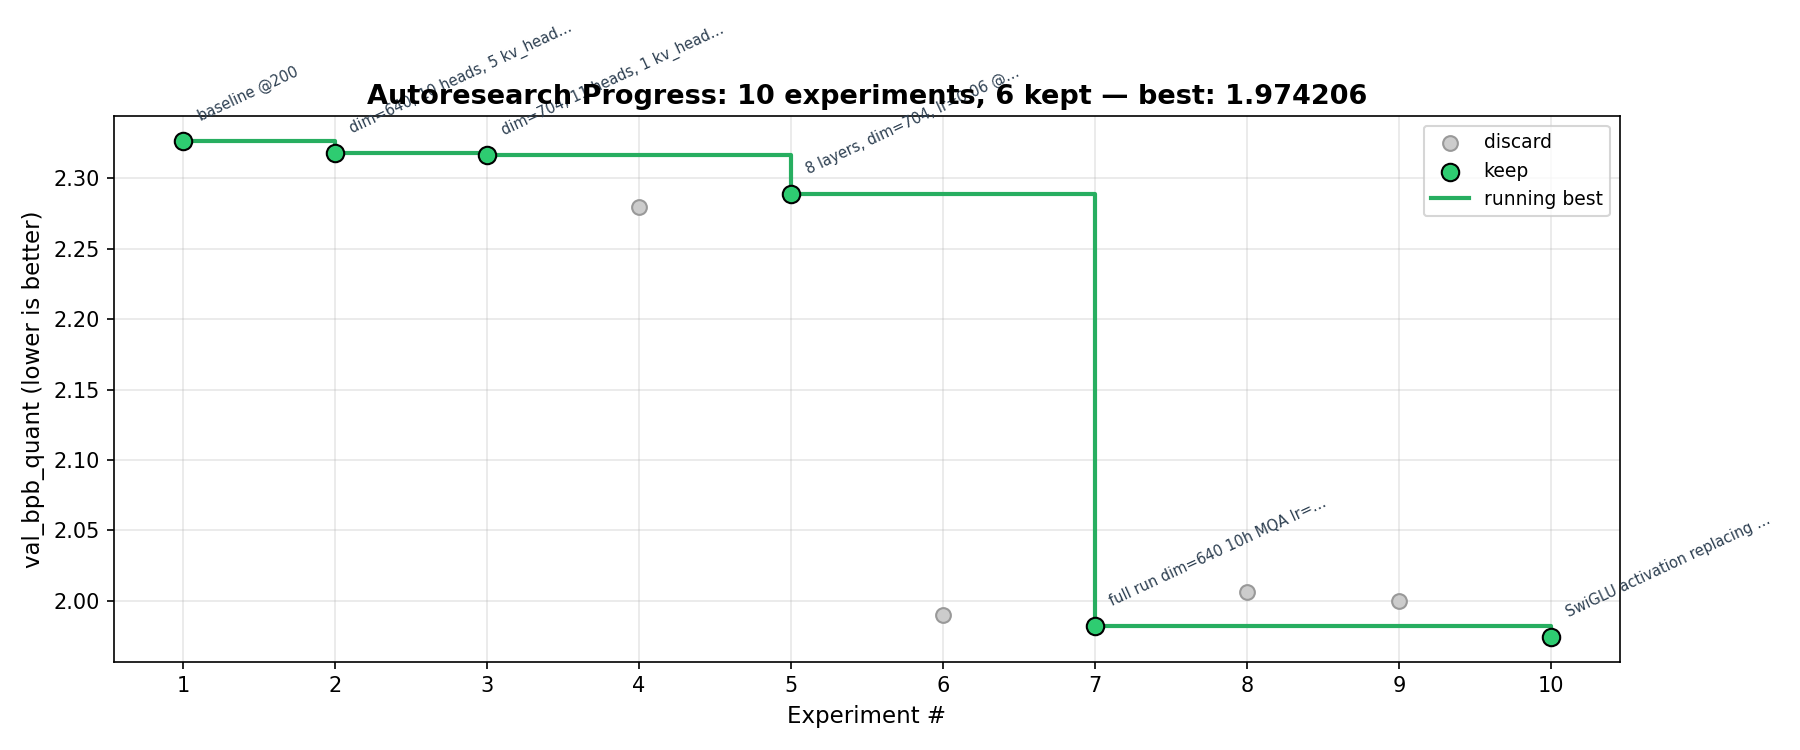
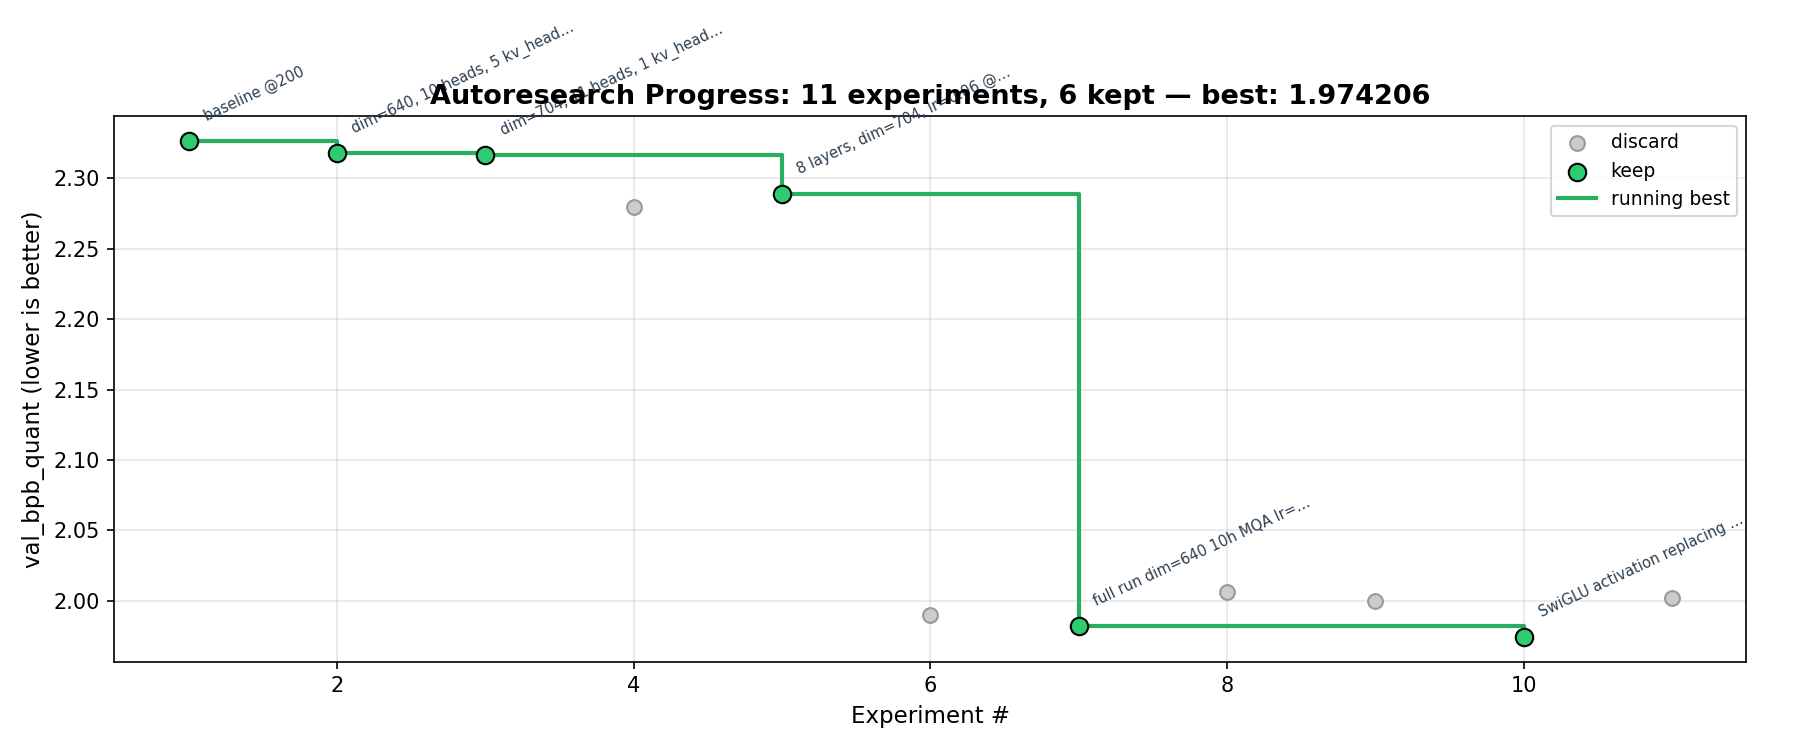
Update results: dim=660 discard (slower per step, worse BPB)

diff --git a/train.py b/train.py
@@ -66,7 +66,7 @@ class Hyperparameters:
     # Model architecture
     vocab_size: int = int(os.environ.get("VOCAB_SIZE", 1024))
     num_layers: int = int(os.environ.get("NUM_LAYERS", 8))
-    model_dim: int = int(os.environ.get("MODEL_DIM", 660))
+    model_dim: int = int(os.environ.get("MODEL_DIM", 640))
     num_heads: int = int(os.environ.get("NUM_HEADS", 10))
     num_kv_heads: int = int(os.environ.get("NUM_KV_HEADS", 1))
     mlp_mult: int = int(os.environ.get("MLP_MULT", 2))

diff --git a/README.md b/README.md
@@ -20,6 +20,7 @@ An AI agent autonomously iterates on a small GPT model, trying to minimize bits-
 | 8 | bbbe9b0 | 650 | 2.005917 | 16.6 MB | discard | warmdown_iters 1200→400 (artifact FAIL) |
 | 9 | 4305cc7 | 555 | 1.999741 | 15.5 MB | discard | 9 layers dim=640 MQA (slower, fewer steps) |
 | 10 | 3ac1e8d | 603 | 1.974206 | 14.5 MB | keep | SwiGLU activation replacing ReLU-squared |
+| 11 | 69f7bc1 | 508 | 2.002231 | 14.4 MB | discard | dim=640→660 (slower per step, fewer steps) |
 
 **Current best: 1.974206** (dim=640, 10 heads, MQA, SwiGLU, lr=0.06, full run)
 
